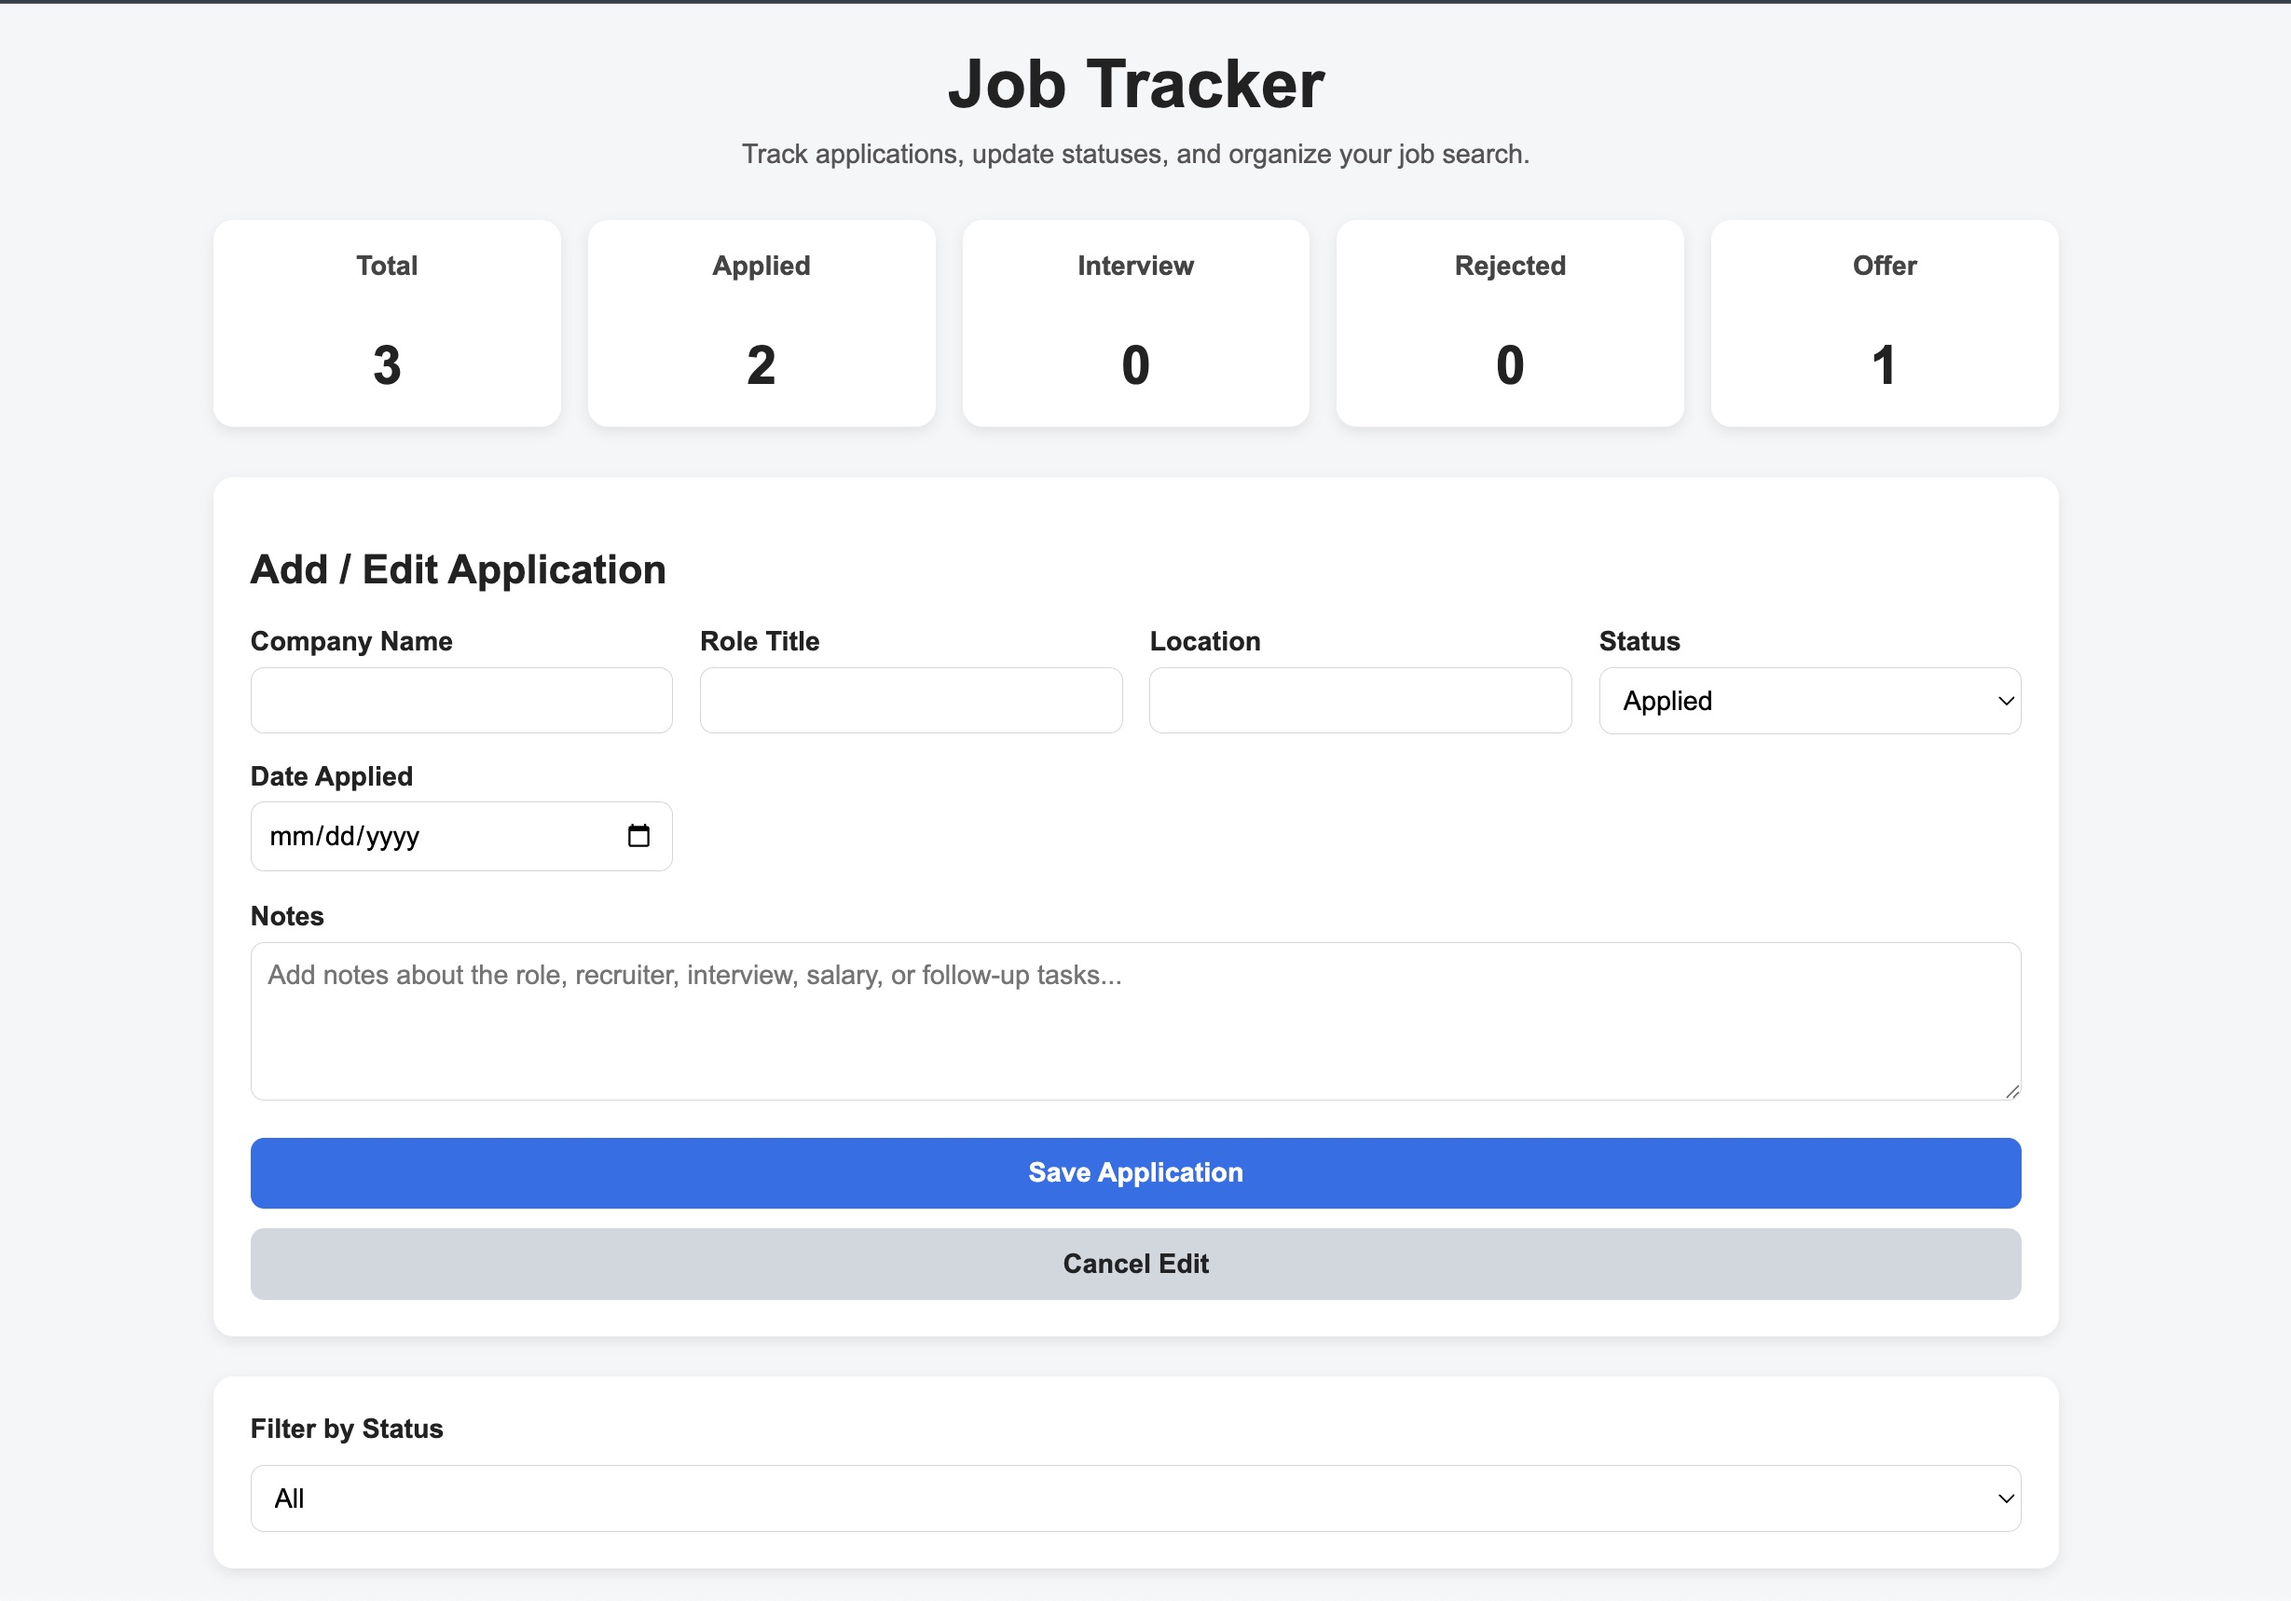
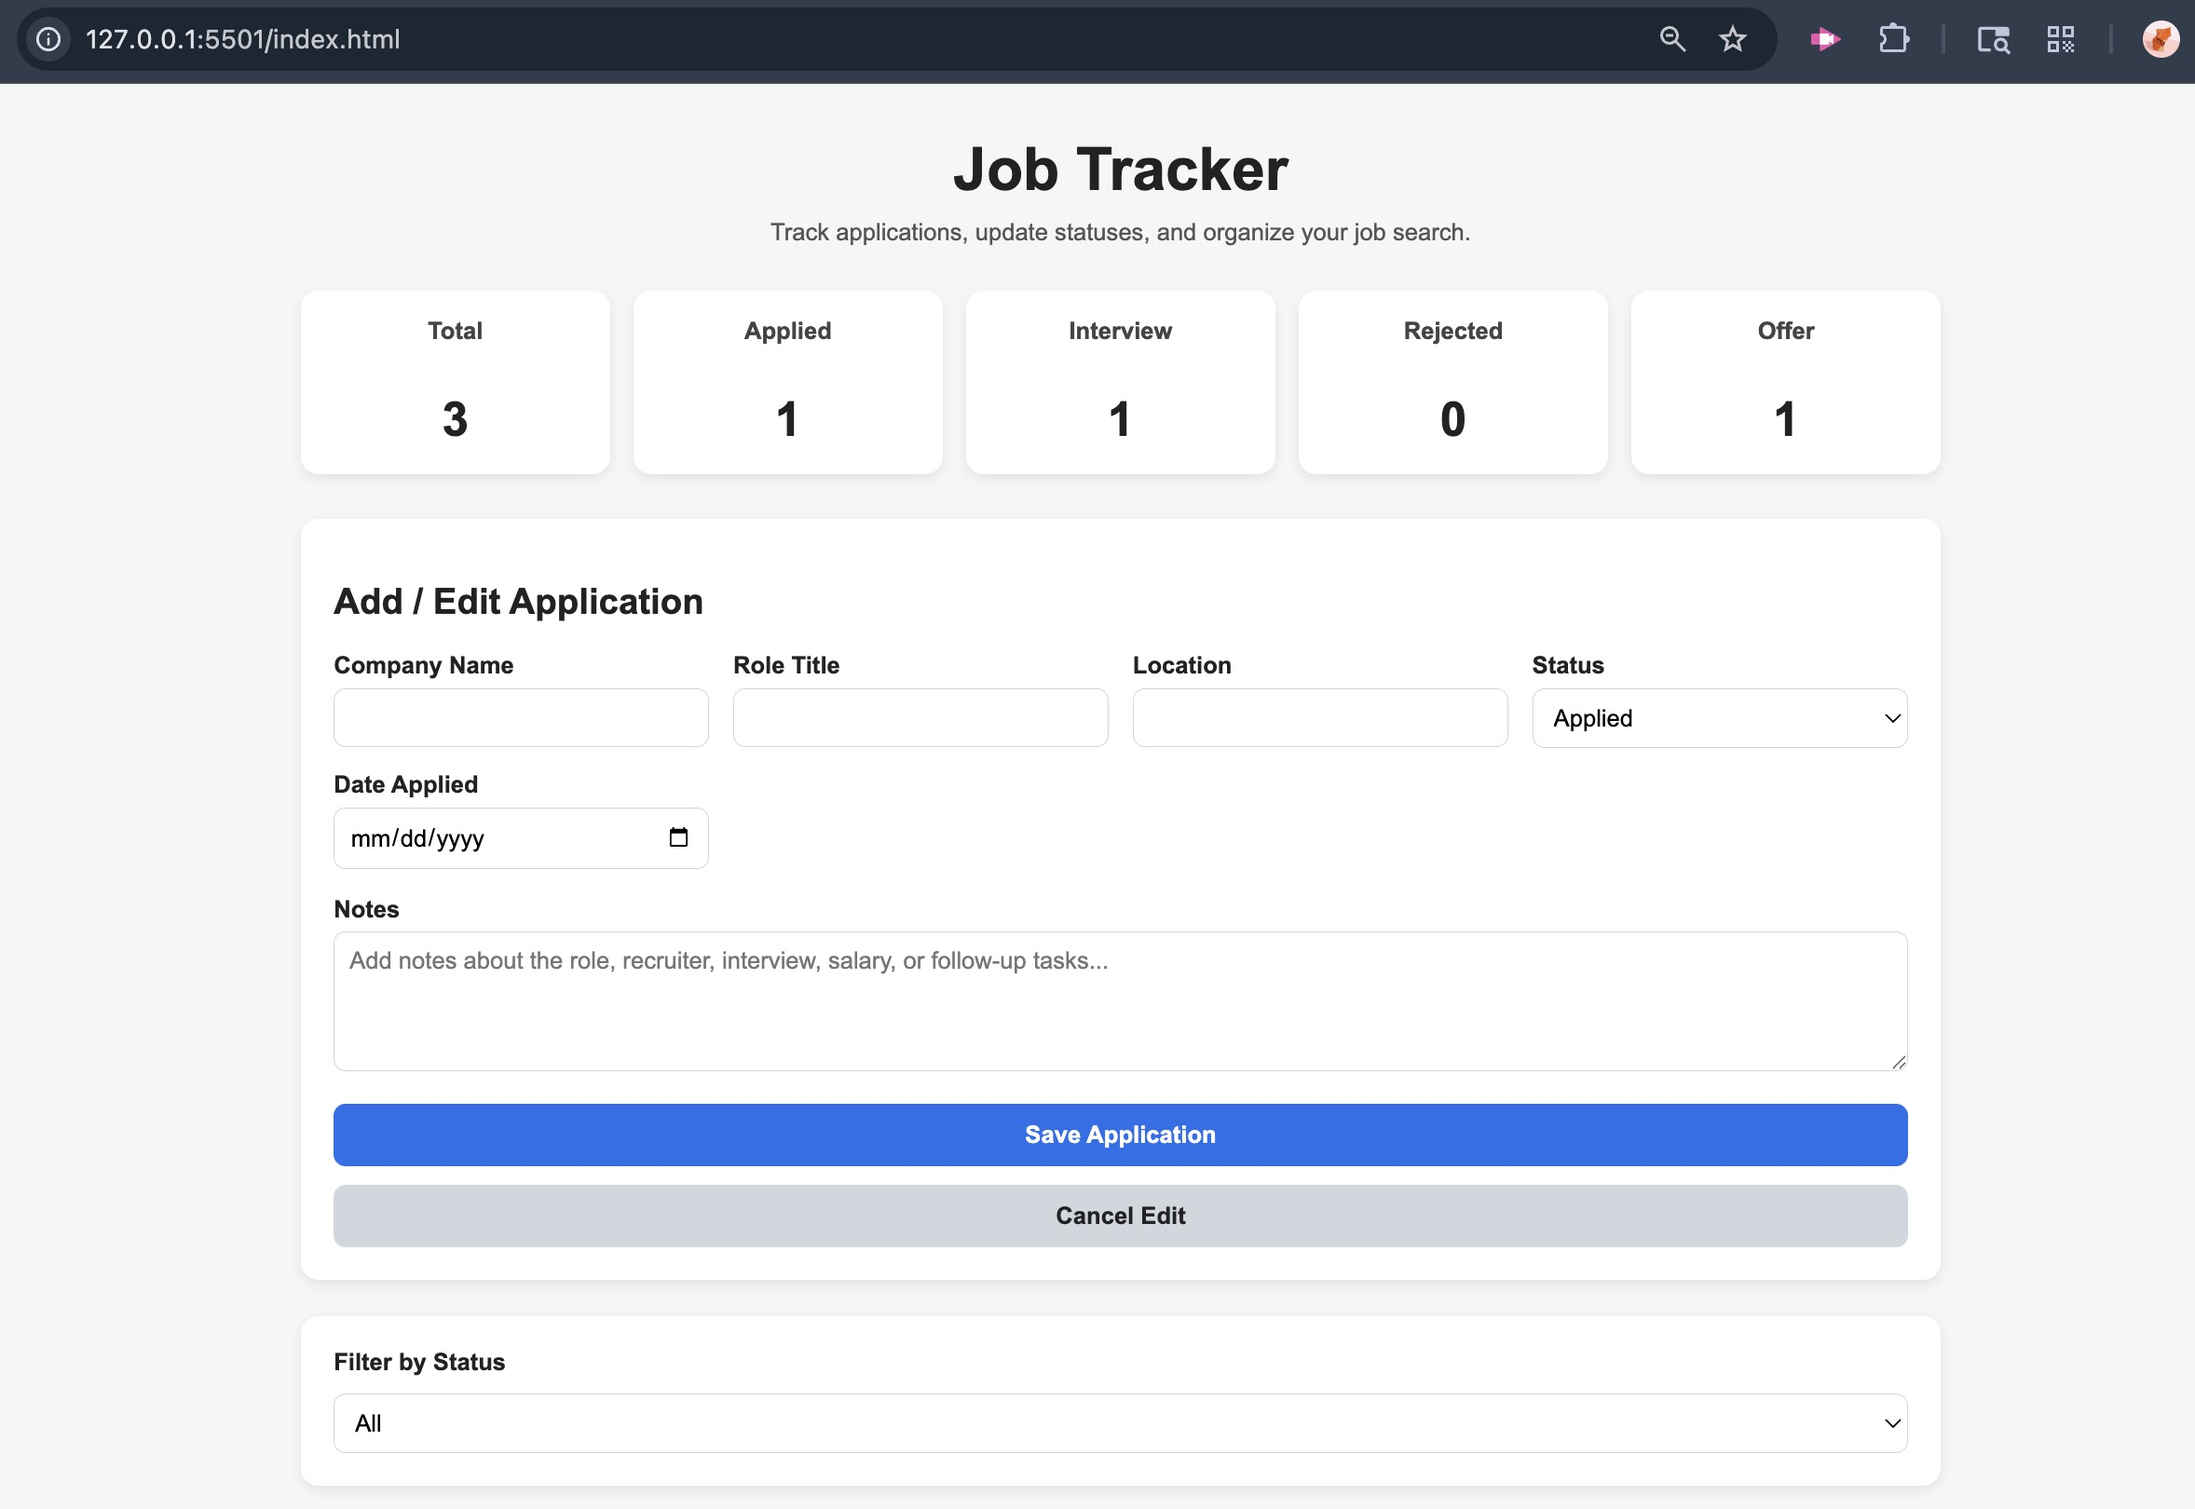
feature/Updated README for version 2

diff --git a/index.html b/index.html
@@ -106,7 +106,7 @@ JavaScript – application logic and localStorage persistence
 
                 <div class="notes-group">
                     <label for="notes">Notes</label>
-                    <textarea id="notes" rows="4" placeholder="Add notes about the role, recruiter, interview, salary, or follow-up tasks..."></textarea>
+                    <textarea id="notes" rows="4" placeholder="Add notes about the role, recruiter, website-link, interview, salary, or follow-up tasks..."></textarea>
                 </div>
 
                 <div class="form-buttons">

diff --git a/README.md b/README.md
@@ -1,34 +1,50 @@
 # Job Tracker
 
-A simple web application for tracking job applications during the job search process.
+A lightweight web application for organizing and tracking job applications during the job search process.
 
-Users can add, edit, delete, and filter job applications while tracking their progress through different stages such as Applied, Interview, Rejected, or Offer.
+Users can add, edit, delete, and filter job applications while tracking their progress through different stages such as **Applied, Interview, Rejected, or Offer**.
 
-The application stores all data locally in the browser using `localStorage`, so application entries persist even after refreshing the page.
+All data is stored locally in the browser using the **localStorage API**, allowing applications to persist even after refreshing the page.
+
+---
+
+## Live Demo
+
+Try the application here:
+
+https://antonioc-26.github.io/Job-Tracker/
 
 ---
 
 ## Screenshots
 
 ### Dashboard
-
 ![Dashboard](screenshots/dashboard-screenshot.jpg)
 
 ### Applications List
-
 ![Applications](screenshots/job-list-screenshot.jpg)
 
 ---
 
 ## Features
 
-- Add job applications
+- Add new job applications
 - Edit existing applications
-- Delete applications
-- Track job status
+- Delete applications with confirmation
 - Filter applications by status
-- Dashboard summary of applications
-- Persistent data using localStorage
+- Dashboard summary of job search progress
+- Status color badges for quick visual tracking
+- Automatic sorting (newest applications first)
+- Persistent data using `localStorage`
+
+---
+
+## Status Types
+
+- Applied
+- Interview
+- Rejected
+- Offer
 
 ---
 
@@ -46,13 +62,6 @@ This provides a quick overview of the current job search progress.
 
 ---
 
-## Live Demo
-Play the games here:
-
-https://antonioc-26.github.io/Job-Tracker/
-
----
-
 ## Technologies Used
 
 - HTML5
@@ -62,26 +71,31 @@ https://antonioc-26.github.io/Job-Tracker/
 
 ---
 
-## Status Types
-
-- Applied
-- Interview
-- Rejected
-- Offer
+## Project Structure
+```
+job-tracker/
+├── LICENSE
+├── README.md
+├── index.html
+├── screenshots
+│   ├── dashboard-screenshot.jpg
+│   └── job-list-screenshot.jpg
+├── script.js
+└── style.css
+```
 
 ---
 
-## First Time Setup
+## Running the Project Locally
 
-Follow these steps to run the project locally.
+### Option 1 — Open Directly
 
-### 1. Clone the Repository
-    git clone https://github.com/antonioc-26/Job-Tracker.git
-    cd job-tracker
+1. Download or clone the repository
+2. Open `index.html` in any web browser
 
-Or download the ZIP from GitHub and extract it.
+No installation or dependencies are required.
 
---- 
+---
 
 ### 2. Open the Project in VS Code
 
@@ -118,35 +132,13 @@ Your browser will automatically open something similar to:
 
     http://127.0.0.1:5500/index.html
 
----
-
-### Live Reload
-
-When you edit and save any file such as:
-
-    CSS
-    JavaScript
-    HTML
-
-The browser will automatically refresh.
-
----
-
-## Project Structure
-```
-job-tracker/
-├── LICENSE
-├── README.md
-├── index.html
-├── script.js
-└── style.css
-```
+The page will automatically refresh when you edit and save files.
 
 ---
 
 ## Development
 
-If you plan to modify or add games:
+If you plan to modify or add:
 
 1. Run the project using Live Server
 2. Edit HTML/CSS/JavaScript files
